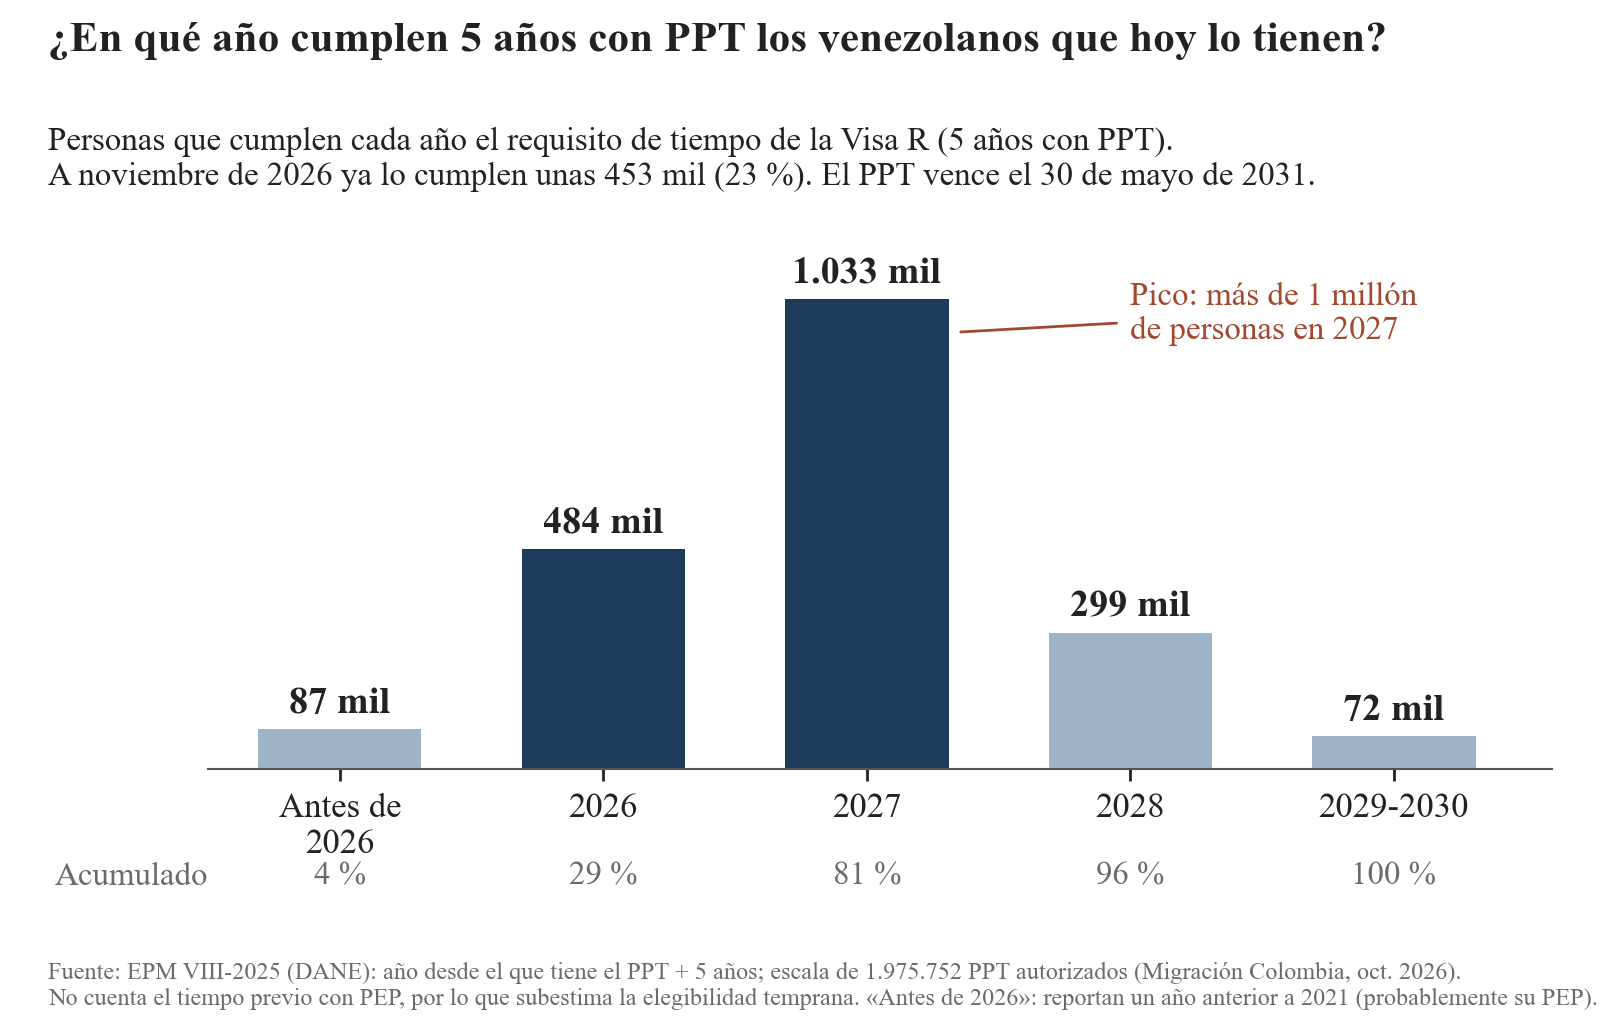
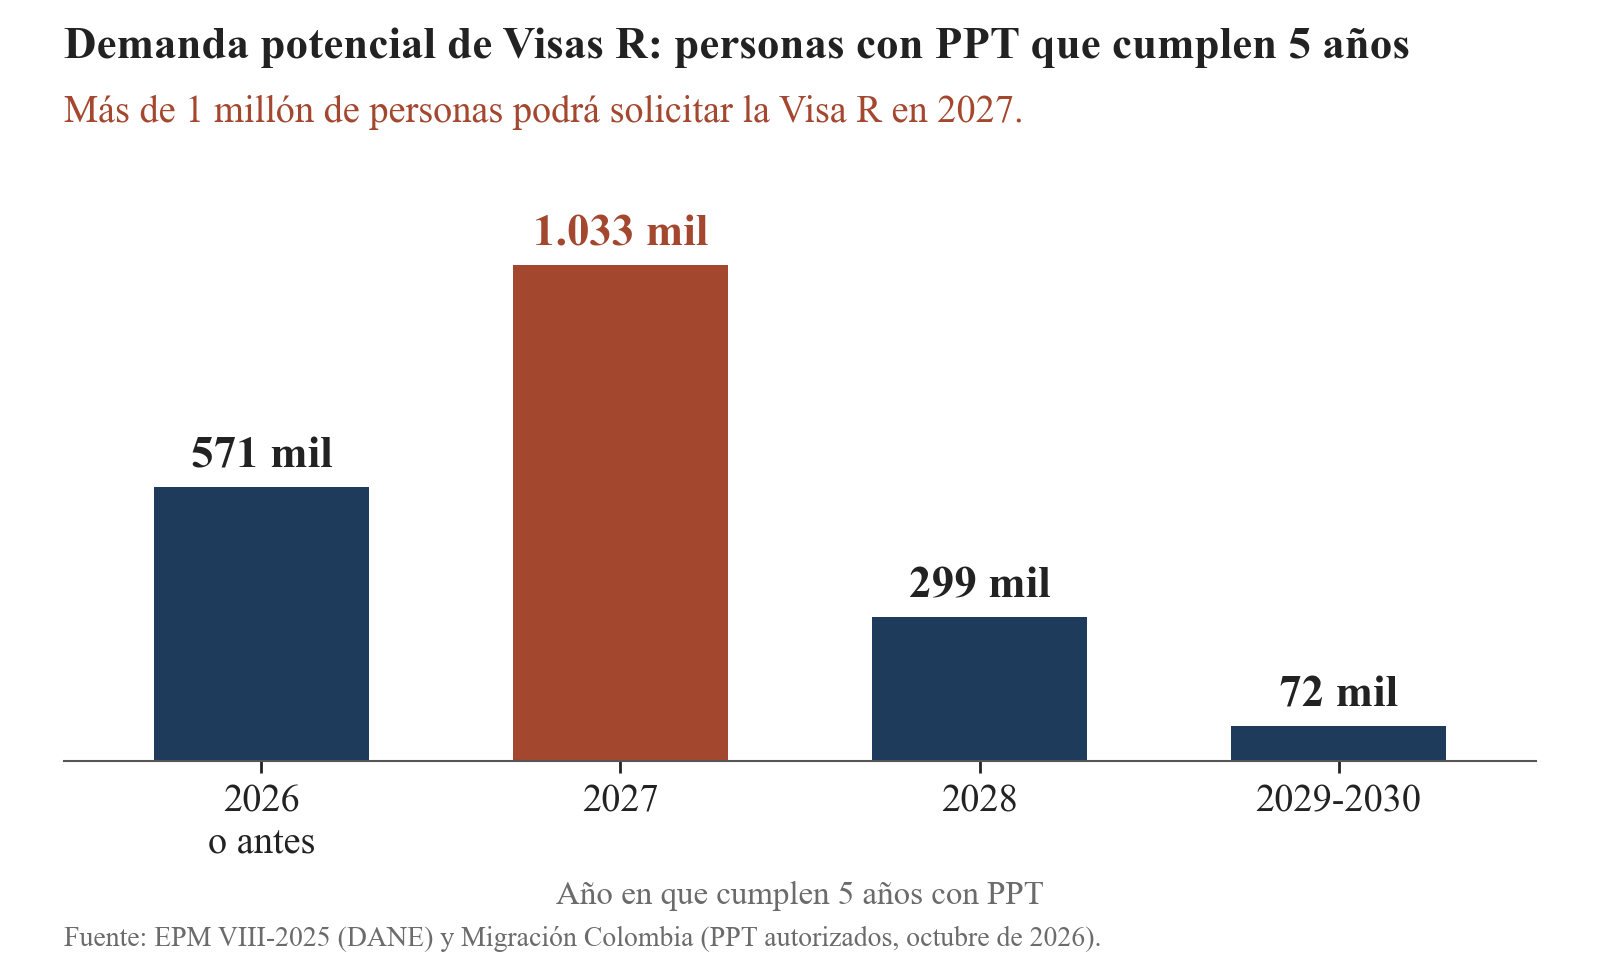
Grafico de demanda potencial de Visas R: titulo directo y lectura simple

diff --git a/Code/19_grafico_elegibilidad.py b/Code/19_grafico_elegibilidad.py
@@ -26,30 +26,20 @@ e["anio_eleg"] = e.Ide14_2 + 5
 e["w"] = e.FEX_PER / e.FEX_PER.sum()
 ya = float(e.w[(e.anio_eleg < HOY[0]) | ((e.anio_eleg == HOY[0]) & (e.Ide14_3 <= HOY[1]))].sum())
 
-grupos = [("Antes de" + NL + "2026", e.anio_eleg < 2026), ("2026", e.anio_eleg == 2026), ("2027", e.anio_eleg == 2027),
-          ("2028", e.anio_eleg == 2028), ("2029-2030", e.anio_eleg >= 2029)]
+grupos = [("2026" + NL + "o antes", e.anio_eleg <= 2026), ("2027", e.anio_eleg == 2027), ("2028", e.anio_eleg == 2028), ("2029-2030", e.anio_eleg >= 2029)]
 sh = np.array([float(e.w[m].sum()) for _, m in grupos]); n = sh * N_PPT; acum = np.cumsum(sh)
 pd.DataFrame({"anio_en_que_cumple_5_anios": [g.replace(NL, " ") for g, _ in grupos], "pct_titulares": 100 * sh, "personas_escala_oficial": n.round(),
               "pct_acumulado": 100 * acum}).round(1).to_csv(TAB / "t21_elegibilidad_por_anio.csv", index=False)
 
-fig, ax = plt.subplots(figsize=(6.4, 4.1)); fig.subplots_adjust(left=0.13, right=0.97, top=0.76, bottom=0.25)
+fig, ax = plt.subplots(figsize=(6.4, 3.9)); fig.subplots_adjust(left=0.04, right=0.96, top=0.8, bottom=0.22)
 x = np.arange(len(grupos))
-ax.bar(x, n / 1e3, 0.62, color=[LNAVY, NAVY, NAVY, LNAVY, LNAVY])
+ax.bar(x, n / 1e3, 0.6, color=[NAVY, ACC, NAVY, NAVY])
 for xi, v in zip(x, n):
-    ax.text(xi, v / 1e3 + 18, f"{miles(v / 1e3)} mil", ha="center", va="bottom", fontsize=11, fontweight="bold")
-ax.set_xticks(x); ax.set_xticklabels([g for g, _ in grupos], fontsize=10)
-for xi, a in zip(x, acum):
-    ax.text(xi, -205, f"{100 * a:.0f} %", ha="center", va="top", fontsize=9.5, color=GRAY)
-ax.text(-0.5, -205, "Acumulado", ha="right", va="top", fontsize=9.5, color=GRAY)
-ax.set_ylim(0, 1150); ax.set_xlim(-0.5, len(grupos) - 0.4)
-ax.annotate("Pico: más de 1 millón" + NL + "de personas en 2027", xy=(2.33, 960), xytext=(3.0, 1000), fontsize=9.5, color=ACC, va="center",
-            arrowprops=dict(arrowstyle="-", color=ACC, lw=0.8))
-fig.text(0.03, 0.95, "¿En qué año cumplen 5 años con PPT los venezolanos que hoy lo tienen?", fontsize=12.5, fontweight="bold", ha="left")
-fig.text(0.03, 0.82, "Personas que cumplen cada año el requisito de tiempo de la Visa R (5 años con PPT)." + NL +
-         f"A noviembre de 2026 ya lo cumplen unas {miles(ya * N_PPT / 1e3)} mil ({100 * ya:.0f} %). El PPT vence el 30 de mayo de 2031.",
-         fontsize=9.5, ha="left", color=INK)
-fig.text(0.03, 0.02, f"Fuente: EPM VIII-2025 (DANE): año desde el que tiene el PPT + 5 años; escala de {miles(N_PPT)} PPT autorizados (Migración Colombia, oct. 2026)." + NL +
-         "No cuenta el tiempo previo con PEP, por lo que subestima la elegibilidad temprana. «Antes de 2026»: reportan un año anterior a 2021 (probablemente su PEP).",
-         fontsize=7, color=GRAY, ha="left")
+    ax.text(xi, v / 1e3 + 20, f"{miles(v / 1e3)} mil", ha="center", va="bottom", fontsize=13, fontweight="bold", color=ACC if xi == 1 else INK)
+ax.set_xticks(x); ax.set_xticklabels([g for g, _ in grupos], fontsize=11); ax.set_xlabel("Año en que cumplen 5 años con PPT", fontsize=9.5, color=GRAY, labelpad=6)
+ax.set_ylim(0, 1180); ax.set_xlim(-0.55, len(grupos) - 0.45)
+fig.text(0.04, 0.94, "Demanda potencial de Visas R: personas con PPT que cumplen 5 años", fontsize=13, fontweight="bold", ha="left")
+fig.text(0.04, 0.875, "Más de 1 millón de personas podrá solicitar la Visa R en 2027.", fontsize=11, ha="left", color=ACC)
+fig.text(0.04, 0.03, "Fuente: EPM VIII-2025 (DANE) y Migración Colombia (PPT autorizados, octubre de 2026).", fontsize=8, color=GRAY, ha="left")
 fig.savefig(FIG / "pr6_anios_elegibilidad.png", dpi=250, facecolor="white"); plt.close(fig)
 print(pd.read_csv(TAB / "t21_elegibilidad_por_anio.csv").to_string(), NL + "ya cumplen:", round(100 * ya, 1), miles(ya * N_PPT))
